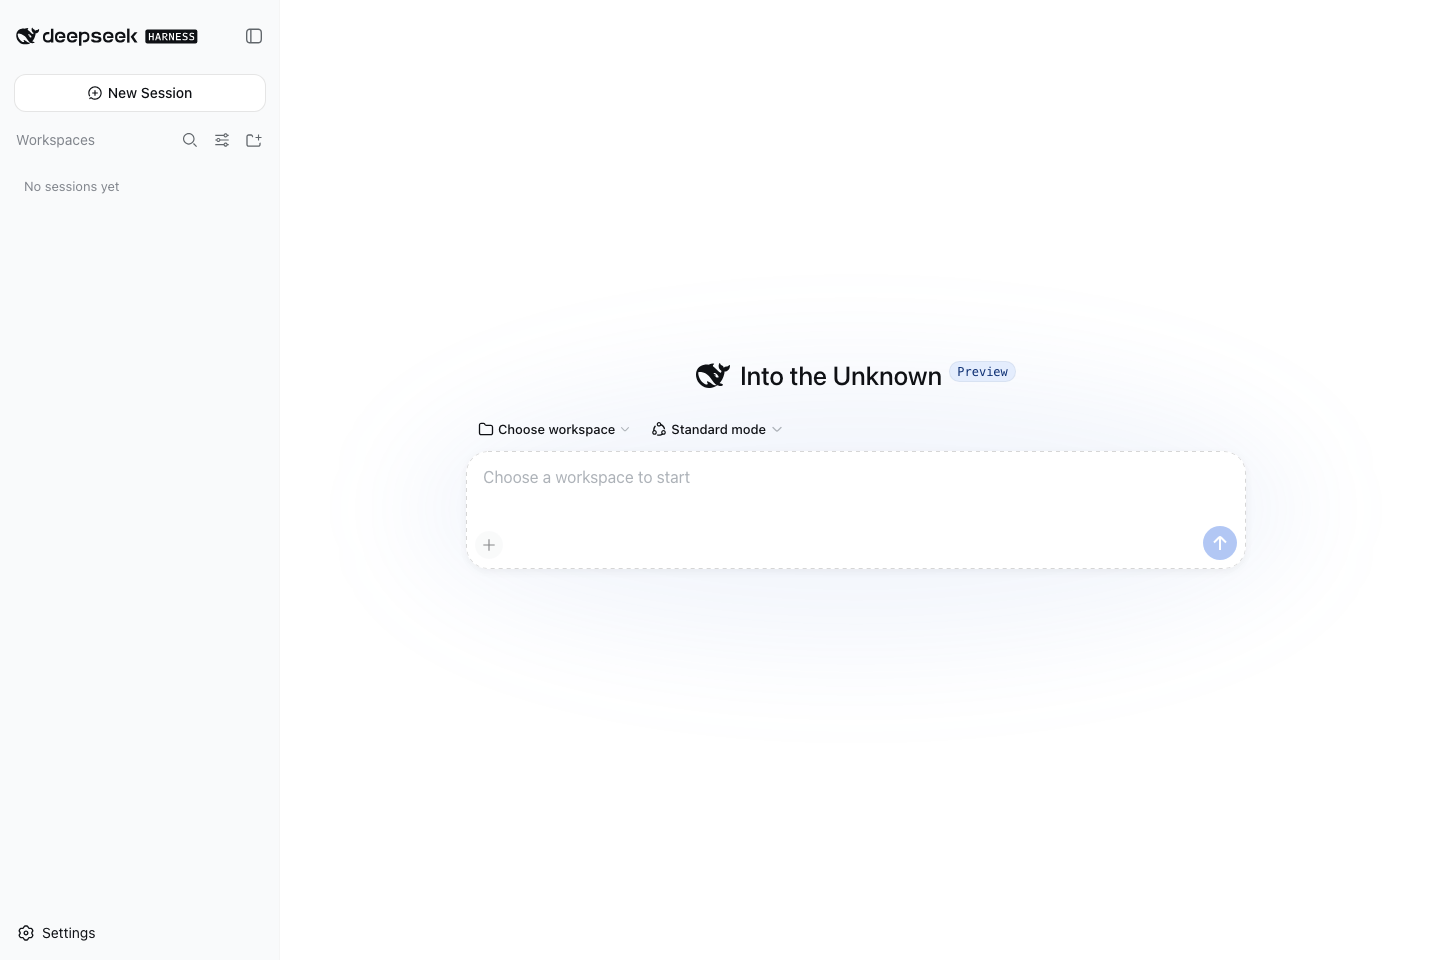
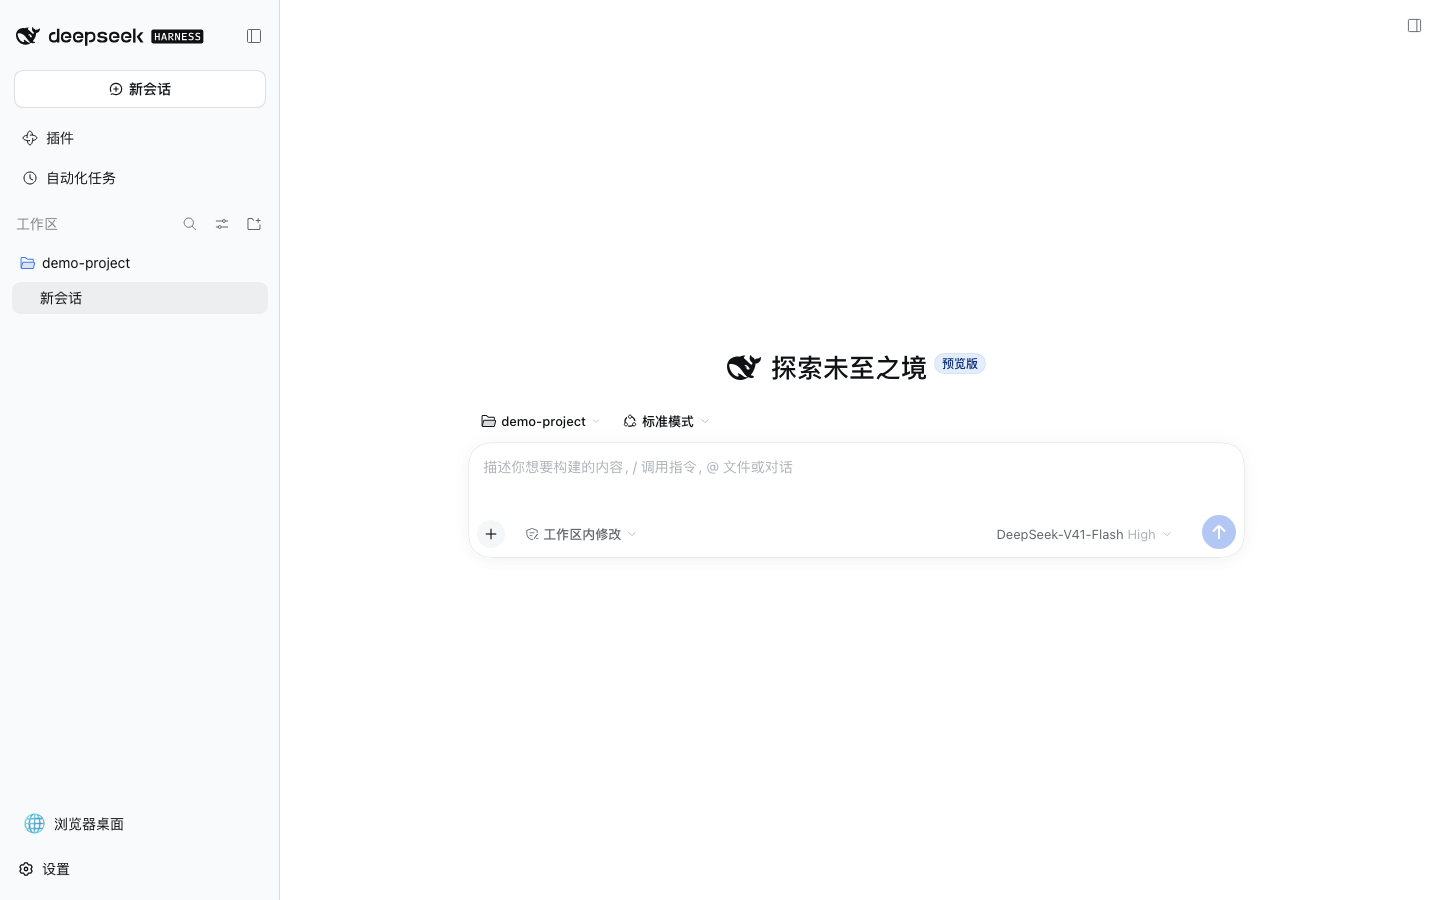
docs: refresh README with current light-theme screenshots

diff --git a/README.md b/README.md
@@ -30,7 +30,9 @@
 
 🤖 **Agent Skill：**根目录的 [`SKILL.md`](SKILL.md) 已作为 [`deepseek-harness-docker`](https://skillhub.cloud.tencent.com/skills/deepseek-harness-docker) 发布到腾讯云 SkillHub，可供支持 Agent Skills 的客户端安装和使用。它指导 Agent 按本项目的安全边界完成 Docker Compose/Helm 部署、验证、升级与排障；这是部署辅助 Skill，不是 DSH 运行时插件。
 
-![DeepSeek Harness Web UI running from this image](assets/deepseek-harness-web.png)
+![DeepSeek Harness 浅色 Web UI：示例工作区、插件和自动化任务入口](assets/deepseek-harness-web.png)
+
+_浅色界面实拍（2026-10-08，DSH `0.2.1-alpha.1`）。使用独立的空白演示工作区，不包含个人会话或凭据；模型名称为界面默认项，截图未调用模型。_
 
 ## 项目状态
 
@@ -247,7 +249,7 @@ docker compose --env-file .env.lan -f compose.yaml -f compose.lan.yaml \
 
 ![Harness WebUI 中可移动、缩放的内嵌 Chromium 浏览器](assets/browser-desktop-webui.png)
 
-_实际运行效果：浏览器浮窗位于 Harness WebUI 内，图中打开的是 DeepSeek Harness 的公开 GitHub 仓库。_
+_浅色界面实拍（2026-10-08，DSH `0.2.1-alpha.1`、浏览器桌面插件 `0.1.5`）：浏览器浮窗位于 Harness WebUI 内，图中打开的是 DeepSeek Harness 的公开 GitHub 仓库。_
 
 该实现参考了 [`docker-antigravity`](https://github.com/runzhliu/docker-antigravity) 的可视桌面思路，但没有采用其 `amd64` 基础镜像和 Selkies，而是使用 Debian 原生架构软件包，因此 Apple Silicon 与 x86 Linux 均可运行。官方的 [Browser Use 架构](https://github.com/deepseek-ai/deepseek-harness/blob/master/docs/subsystems/browser-use.md)和 [Sidebar Browser 限制](https://github.com/deepseek-ai/deepseek-harness/blob/master/packages/client/ui-sidebar-browser/README.md)说明了两类浏览器能力的边界。6080 与 3080 一样只绑定宿主机回环地址；noVNC 原生端口没有认证，不能直接暴露。可选 LAN overlay 会把版本化 `/novnc-*` 路径放到与 WebUI 相同的 HTTPS 和认证入口下。
 
@@ -300,6 +302,10 @@ DSH_WORKSPACE=/absolute/path/to/your/project \
 ```
 
 该变体使用明确区分的 `runzhliu/deepseek-harness:0.2.1-alpha.1-r1-market.1` 标签，固定 `dshmarket@1.66.9`，不会替换默认 DSH 标签或 `latest`。它属于社区可选集成，不是 DeepSeek 官方组件，也不代表本项目对市场条目的审核或背书。
+
+![可选 market 镜像中的浅色社区插件市场](assets/plugin-market-webui.png)
+
+_可选 market 镜像实拍（2026-10-08，`dshmarket@1.66.9`）；默认镜像没有此页面。目录内容与兼容性标记会随社区更新变化，截图仅展示浏览界面，未安装图中插件。_
 
 市场自身在构建期固定并打入可选镜像；通过市场安装的插件和 pnpm store 会写入持久化的 `dsh-home` 卷。安装过程需要容器能够访问 npm/GitHub，第三方包的构建脚本仍应在审查后单独授权。市场内的一键重启已禁用，变更需要通过 `docker compose restart` 或 Kubernetes rollout 进入新进程。
 

diff --git a/assets/README.md b/assets/README.md
@@ -1,5 +1,19 @@
 # Assets
 
-`deepseek-harness-web.png` was captured on 2026-08-13 from a clean container created from the published `runzhliu/deepseek-harness:0.1.0-rc.6` image after the Web endpoint returned HTTP 200. The first-run notice was accepted and provider setup was deferred; no API key, credential, workspace name, or session content is present.
+All three screenshots were captured on **2026-10-08**, using the actual Web UI in **Light** mode at **1440 × 900** pixels. A headless Playwright browser captured clean, temporary containers; the user's existing deployment, model configuration, workspaces, and sessions were not used or changed.
 
-`browser-desktop-webui.png` was captured on 2026-08-14 from the locally built browser-plugin image. It shows the real Harness Web client, the movable and resizable browser overlay, and the container Chromium desktop opening the public `deepseek-ai/deepseek-harness` GitHub repository. It contains no credential, private workspace name, model response, or internal service endpoint.
+| Asset | Image / component | View |
+| --- | --- | --- |
+| `deepseek-harness-web.png` | `runzhliu/deepseek-harness:0.2.1-alpha.1-r1` | New-session page with an empty `demo-project` workspace, Plugins, and Automation tasks. |
+| `browser-desktop-webui.png` | Same default image; `@runzhliu/dsh-browser-desktop@0.1.5` | Real container Chromium opening the public `deepseek-ai/deepseek-harness` GitHub repository inside the movable, resizable desktop panel. |
+| `plugin-market-webui.png` | `runzhliu/deepseek-harness:0.2.1-alpha.1-r1-market.1`; `dshmarket@1.66.9` | Settings → Plugin market → Discover. This optional community market is not included in the default image. |
+
+## Capture notes
+
+- Use disposable containers with temporary DSH state and an empty demonstration workspace; do not reuse personal volumes or provider credentials.
+- Accept the first-run notice, defer provider setup, select Light in Settings, and open the empty `demo-project` workspace through the normal UI.
+- For the desktop view, navigate the container's Chromium to the public upstream repository. Move and resize the overlay with its normal controls; both Harness and the GitHub page use a light theme.
+- For the market view, wait for the catalog and compatibility indicators to load. Do not install a plugin merely to take the screenshot. Catalog entries, metrics, and compatibility indicators are a dated snapshot, not an endorsement or an installation test.
+- Capture only the page viewport, excluding the host browser's address bar and temporary launch token. Inspect each PNG for secrets, internal endpoints, private paths, and UI errors before replacing the README assets.
+
+The model name shown by the UI is its default selection, not evidence of a configured provider or successful inference. No API credentials, personal session content, model responses, or internal service endpoints are present. These are unaltered application screenshots, not generated mockups.

diff --git a/README.en.md b/README.en.md
@@ -32,6 +32,8 @@ The explicit npm version is available upstream; registry replicas and dist-tags 
 
 ![DeepSeek Harness Web UI running from this image](assets/deepseek-harness-web.png)
 
+_Light-theme capture (2026-10-08, DSH `0.2.1-alpha.1`) from an isolated, empty demo workspace. No personal sessions or credentials are shown; the model name is a UI default, and no model call was made._
+
 ## Project status
 
 | Capability | Status | Evidence |
@@ -248,7 +250,7 @@ The public plugin uses Harness's `sidebar.footer.action` and `shell.overlay` ext
 
 ![Movable and resizable Chromium browser embedded in the Harness Web UI](assets/browser-desktop-webui.png)
 
-_Captured from the running stack: the browser panel is inside Harness and displays the public DeepSeek Harness GitHub repository._
+_Light-theme capture (2026-10-08, DSH `0.2.1-alpha.1`, browser-desktop plugin `0.1.5`): the browser panel is inside Harness and displays the public DeepSeek Harness GitHub repository._
 
 This follows the visible-desktop idea from [`docker-antigravity`](https://github.com/runzhliu/docker-antigravity) without adopting its amd64 base or Selkies. Debian's native packages keep the image usable on both Apple Silicon and x86 Linux. The official [Browser Use architecture](https://github.com/deepseek-ai/deepseek-harness/blob/master/docs/subsystems/browser-use.md) and [Sidebar Browser limitations](https://github.com/deepseek-ai/deepseek-harness/blob/master/packages/client/ui-sidebar-browser/README.md) describe the boundary between these layers. Port 6080 is loopback-only like 3080; the native noVNC endpoint has no authentication and must never be exposed directly. The optional LAN overlay carries the versioned `/novnc-*` route through the same HTTPS and authentication boundary as the Web UI.
 
@@ -301,6 +303,10 @@ DSH_WORKSPACE=/absolute/path/to/your/project \
 ```
 
 The variant has the unambiguous `runzhliu/deepseek-harness:0.2.1-alpha.1-r1-market.1` tag and pins `dshmarket@1.66.9`; it does not replace the default DSH tag or `latest`. It is an optional community integration, not a DeepSeek component, and neither DeepSeek nor this project audits or endorses catalog entries.
+
+![Light-theme community plugin market in the optional market image](assets/plugin-market-webui.png)
+
+_Captured from the optional market image (2026-10-08, `dshmarket@1.66.9`); this page is absent from the default image. Catalog entries and compatibility indicators change over time. This screenshot shows browsing only; none of the displayed plugins were installed._
 
 The market package itself is pinned and copied at build time. Plugins installed through it and the pnpm store persist in the `dsh-home` volume. Installation needs container egress to npm/GitHub, and third-party build scripts should remain blocked until separately reviewed and approved. One-click market restart is disabled; apply lifecycle changes with `docker compose restart` or a Kubernetes rollout.
 
